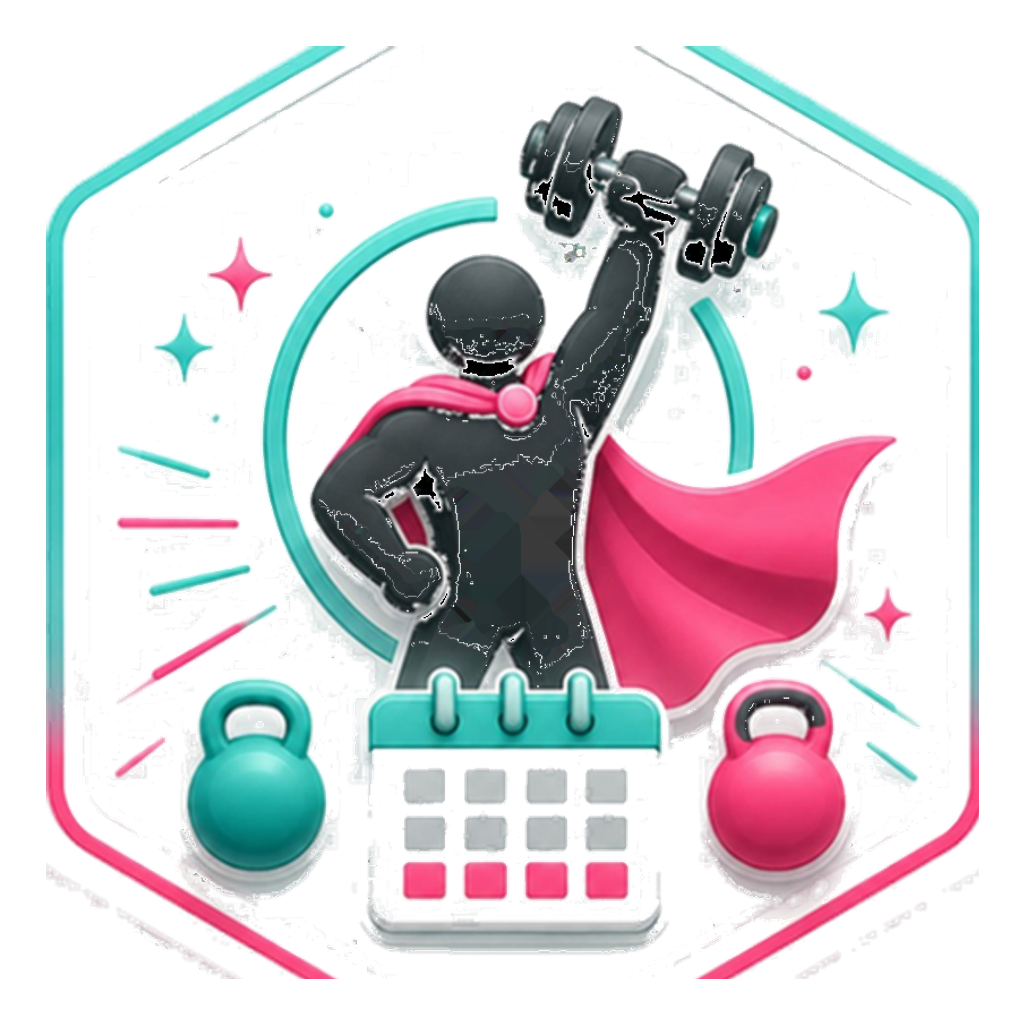
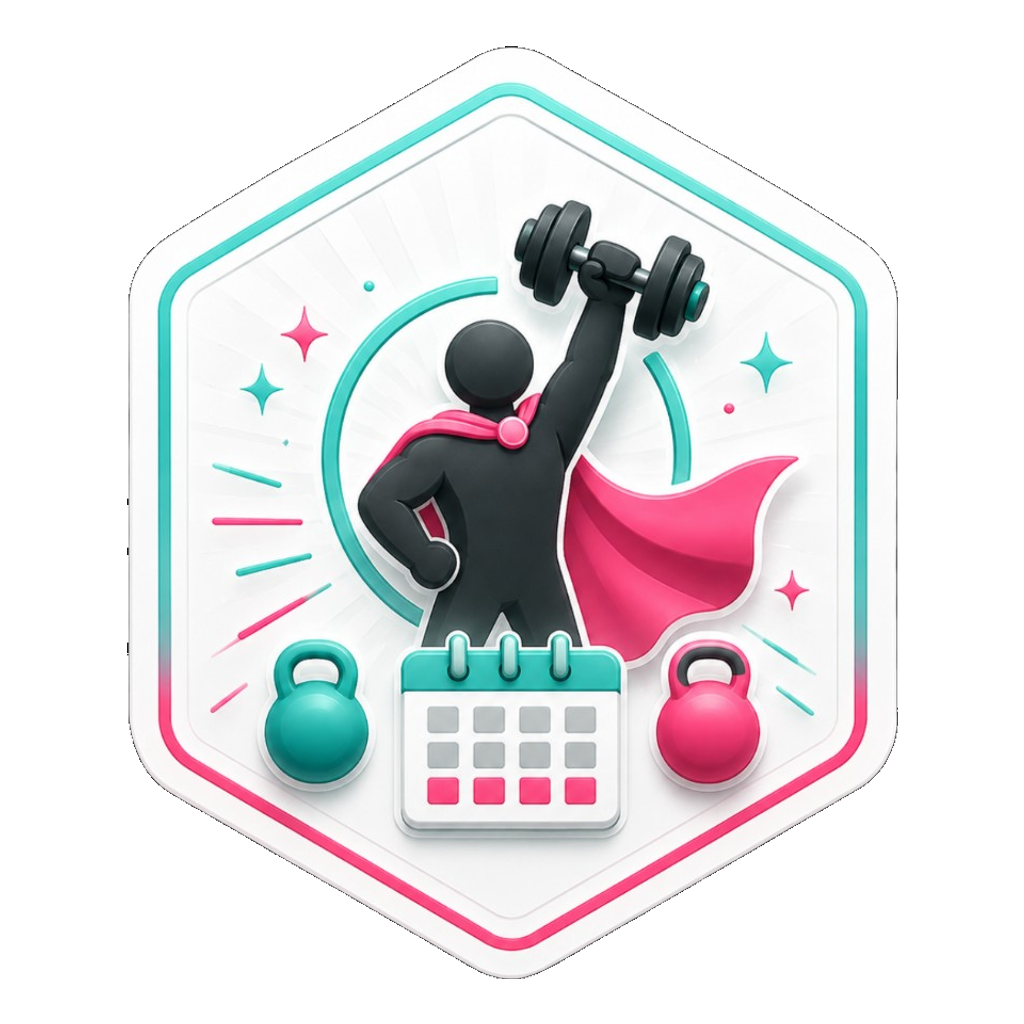
Update Mandagshelt badge artwork
Replace 30-mandagshelt.png with new superhero design and bump cache version.

diff --git a/src/app/badgeAssets.ts b/src/app/badgeAssets.ts
@@ -1,5 +1,5 @@
 /** Felles badge-bilder (PNG 1024×1024, normalisert visuell størrelse). */
-export const BADGE_ASSET_VERSION = "30";
+export const BADGE_ASSET_VERSION = "31";
 
 export function badgeAssetUrl(path: string): string {
   const base = path.split("?")[0] || path;
